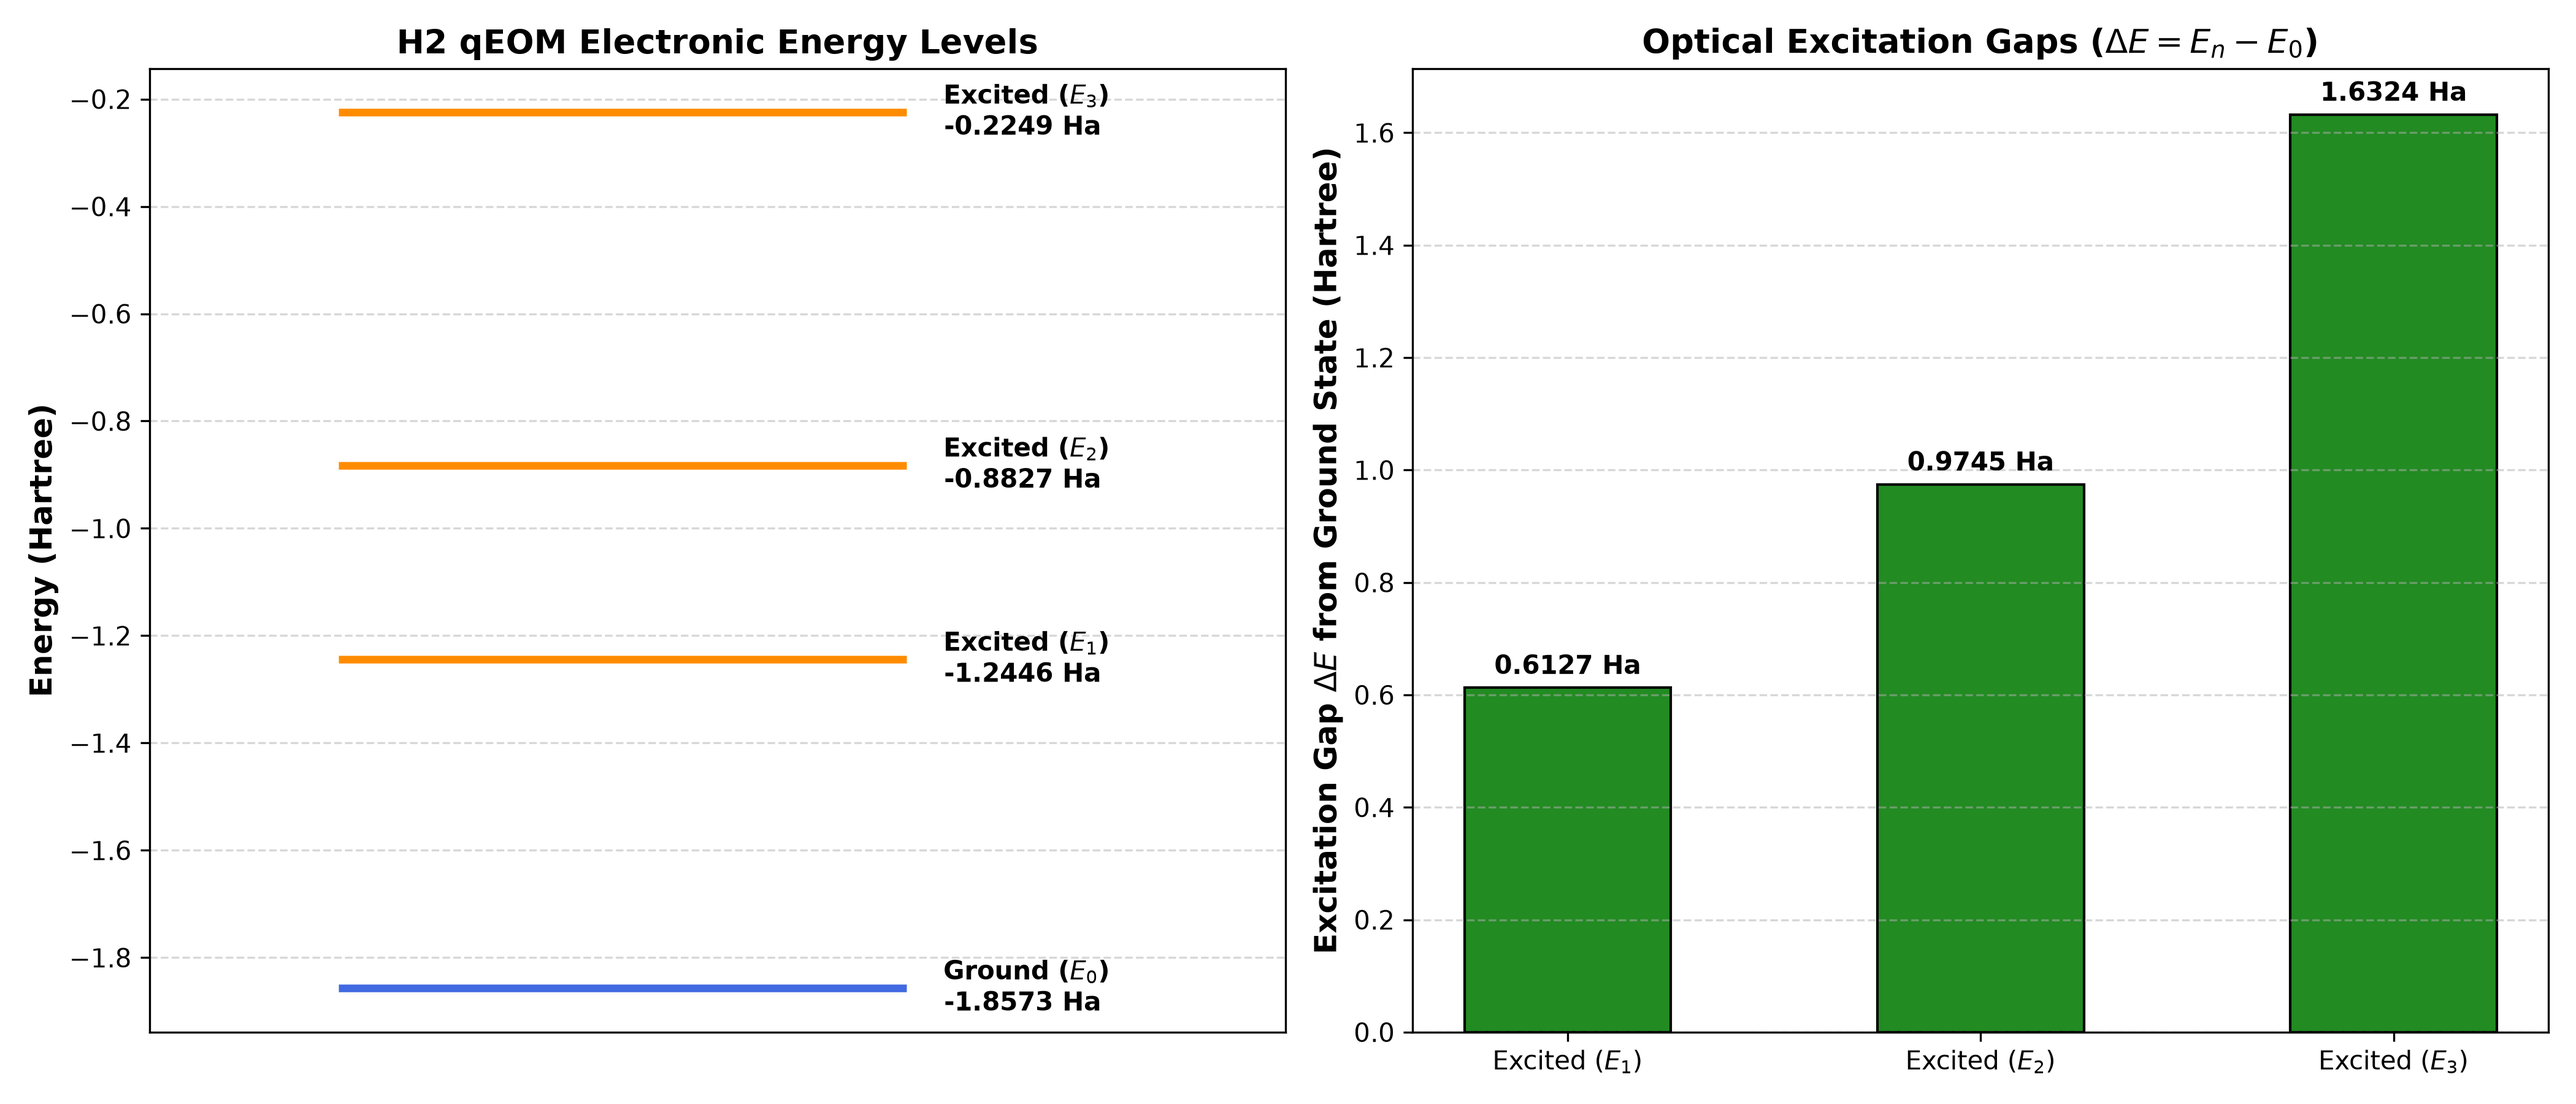
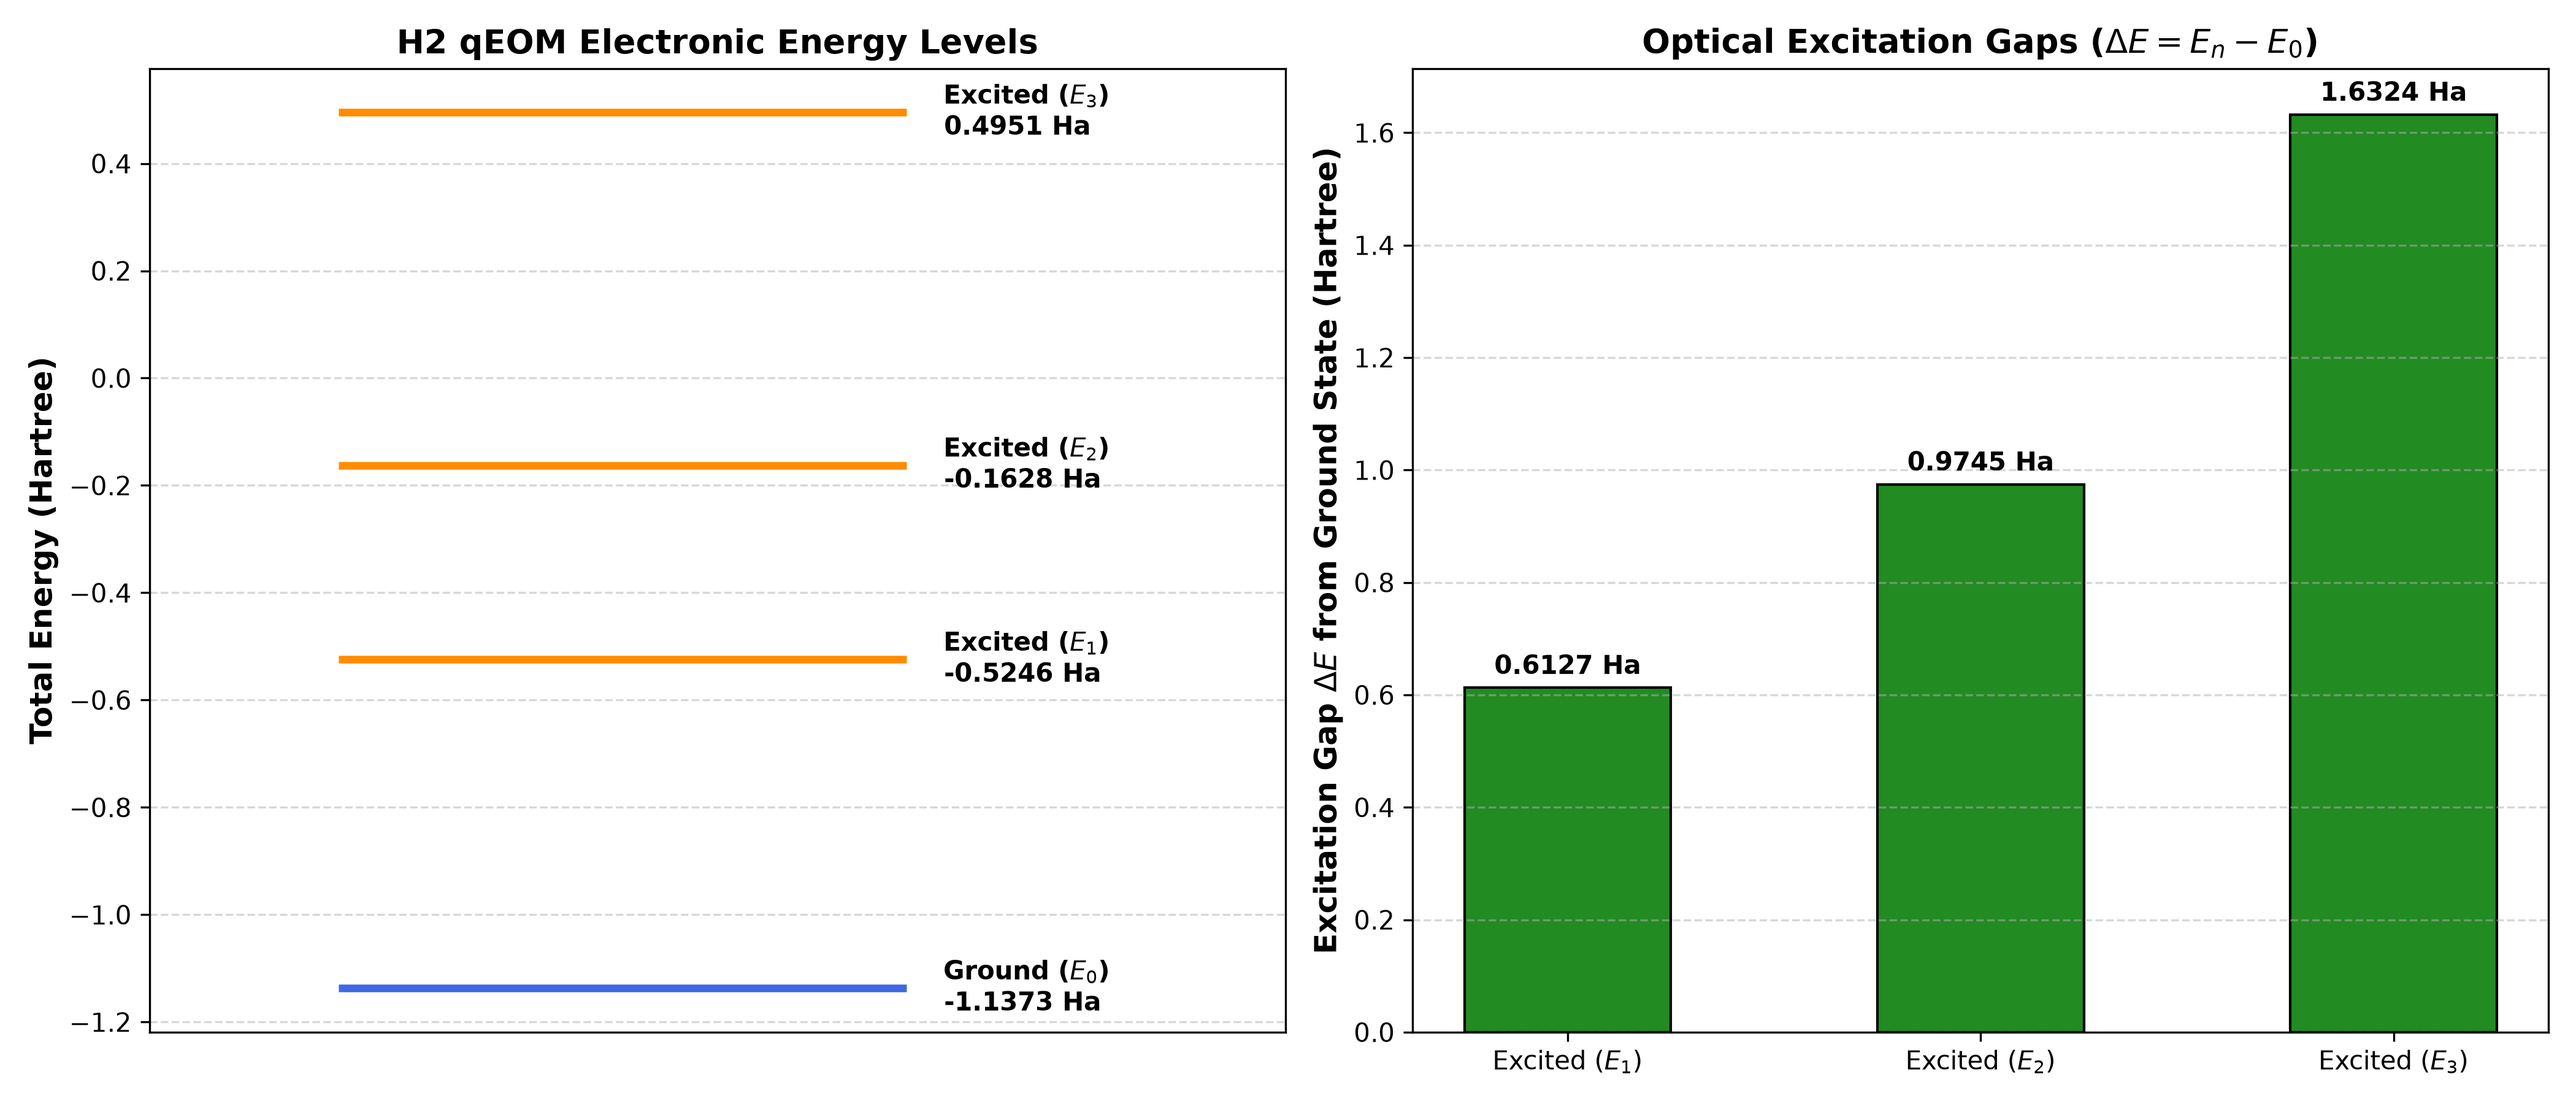
Day 8: Update qEOM script and spectrum plot with nuclear repulsion

diff --git a/vqe_qeom.py b/vqe_qeom.py
@@ -27,6 +27,7 @@ def run_qeom_complete():
         unit=DistanceUnit.ANGSTROM
     )
     problem = driver.run()
+    nuclear_repulsion = problem.nuclear_repulsion_energy
     mapper = JordanWignerMapper()
 
     # 2. VQE Ground State Setup
@@ -55,14 +56,14 @@ def run_qeom_complete():
     calculation_result = qeom_solver.solve(problem)
     execution_time = time.time() - t0
 
-    # 4. Extract Energies
-    eigenvalues = calculation_result.eigenvalues
+    # 4. Extract Eigenvalues and Add Nuclear Repulsion Energy
+    eigenvalues = calculation_result.eigenvalues + nuclear_repulsion
     ground_energy = eigenvalues[0]
     excited_energies = eigenvalues[1:]
 
     # 5. Output Console Table
     print("\n" + "=" * 75)
-    print(f"{'Quantum State':<22} | {'Energy (Hartree)':<22} | {'Excitation Gap (ΔE)'}")
+    print(f"{'Quantum State':<22} | {'Total Energy (Hartree)':<22} | {'Excitation Gap (ΔE)'}")
     print("=" * 75)
     print(f"{'Ground State (E0)':<22} | {ground_energy:<22.6f} | {0.000000:<20.6f}")
     
@@ -89,7 +90,7 @@ def run_qeom_complete():
         ax1.text(0.82, energy, f'  {label}\n  {energy:.4f} Ha', va='center', fontsize=10, fontweight='bold')
 
     ax1.set_xlim(0, 1.2)
-    ax1.set_ylabel('Energy (Hartree)', fontsize=12, fontweight='bold')
+    ax1.set_ylabel('Total Energy (Hartree)', fontsize=12, fontweight='bold')
     ax1.set_title('H2 qEOM Electronic Energy Levels', fontsize=13, fontweight='bold')
     ax1.set_xticks([])
     ax1.grid(axis='y', linestyle='--', alpha=0.5)
